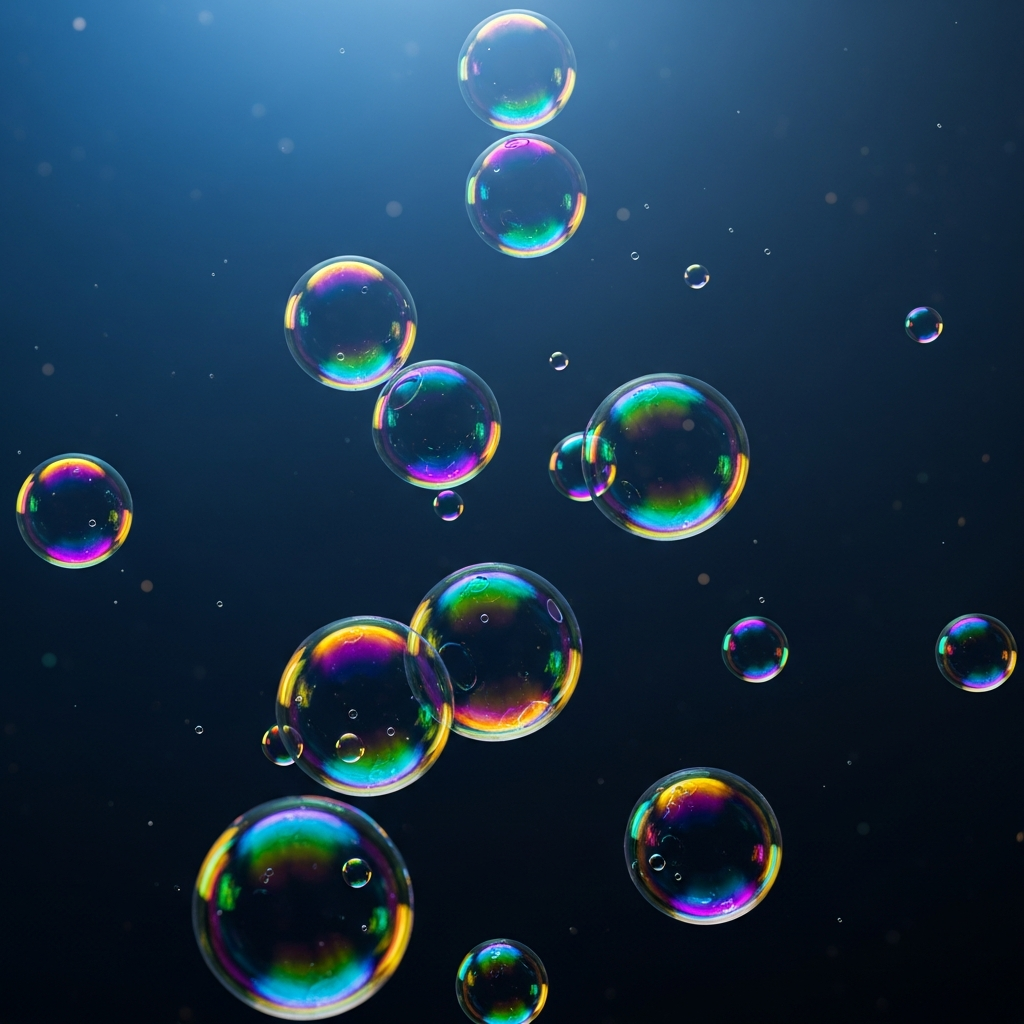
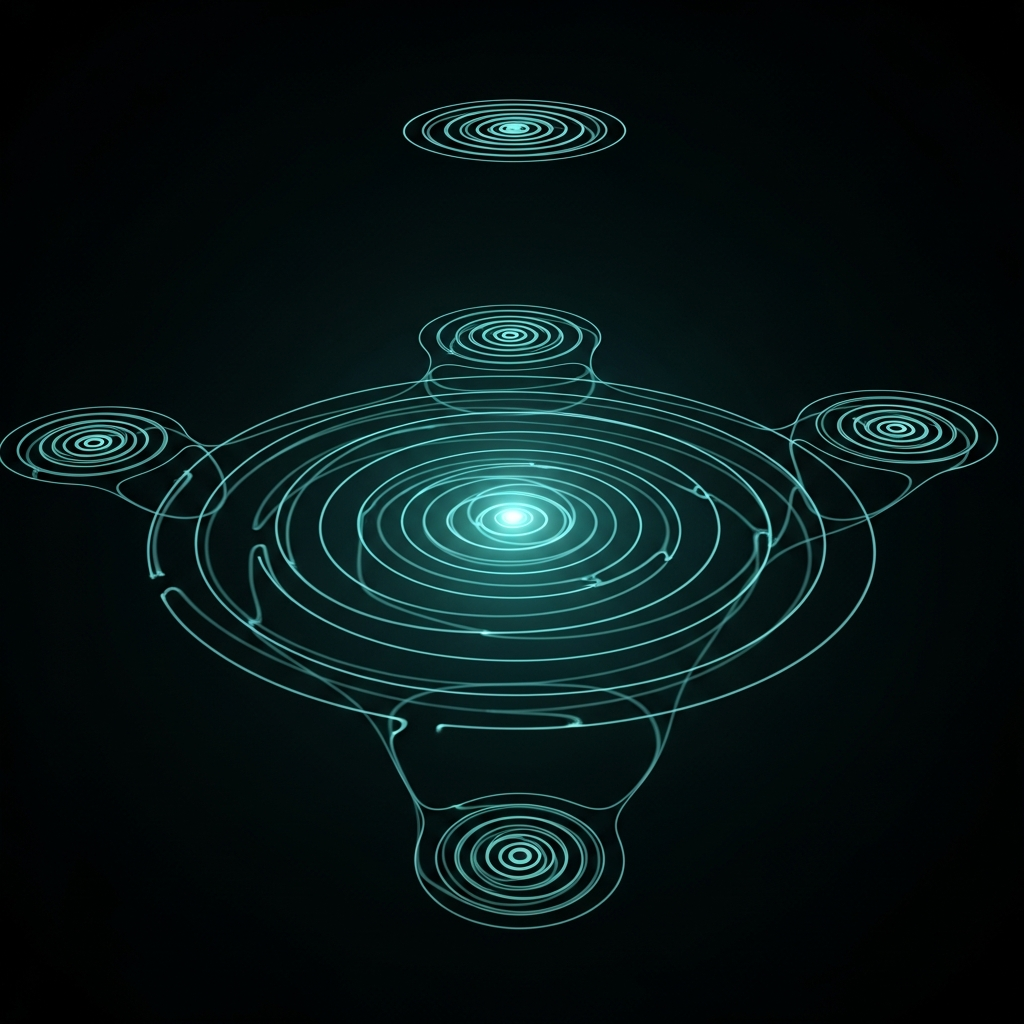
Add missing game thumbnails to improve visual appeal
Adds new thumbnail assets and updates metadata and image mapping to include these missing visuals for various games.

Replit-Commit-Author: Agent
Replit-Commit-Session-Id: eff16172-9ccb-4e85-b1d9-04c66df96663
Replit-Commit-Checkpoint-Type: full_checkpoint
Replit-Commit-Event-Id: eaa69931-3537-4f6d-8a4a-6be283aaba42
Replit-Commit-Screenshot-Url: https://storage.googleapis.com/screenshot-production-us-central1/d93e1826-1079-4de2-967c-6db521da7b1b/eff16172-9ccb-4e85-b1d9-04c66df96663/dMDHScH
Replit-Helium-Checkpoint-Created: true

diff --git a/src/lib/game-images.ts b/src/lib/game-images.ts
@@ -1,25 +1,43 @@
 import anagram from '@/assets/games/anagram.png';
 import attentionArchery from '@/assets/games/attention-archery.png';
+import boxBreathing from '@/assets/games/box-breathing.png';
 import breathBubbles from '@/assets/games/breath-bubbles.png';
+import calmBreathing from '@/assets/games/calm-breathing.png';
 import colorRush from '@/assets/games/color-rush.png';
+import coherentBreathing from '@/assets/games/coherent-breathing.png';
 import copyCat from '@/assets/games/copy-cat.png';
 import dualNBack from '@/assets/games/dual-n-back.png';
 import echoTap from '@/assets/games/echo-tap.png';
 import emotionVolcano from '@/assets/games/emotion-volcano.png';
 import empathyEngine from '@/assets/games/empathy-engine.png';
 import feelingsFaces from '@/assets/games/feelings-faces.png';
+import flexibilityFrames from '@/assets/games/flexibility-frames.png';
+import grounding from '@/assets/games/grounding.png';
+import justRight from '@/assets/games/just-right.png';
+import routineRoadmap from '@/assets/games/routine-roadmap.png';
+import squishLab from '@/assets/games/squish-lab.png';
+import triangleBreathing from '@/assets/games/triangle-breathing.png';
 
 export const GAME_IMAGES: Record<string, string> = {
   'anagram': anagram,
   'attention-archery': attentionArchery,
+  'box-breathing': boxBreathing,
   'breath-bubbles': breathBubbles,
+  'calm-breathing': calmBreathing,
   'color-rush': colorRush,
+  'coherent-breathing': coherentBreathing,
   'copy-cat': copyCat,
   'dual-n-back': dualNBack,
   'echo-tap': echoTap,
   'emotion-volcano': emotionVolcano,
   'empathy-engine': empathyEngine,
   'feelings-faces': feelingsFaces,
+  'flexibility-frames': flexibilityFrames,
+  'grounding': grounding,
+  'just-right': justRight,
+  'routine-roadmap': routineRoadmap,
+  'squish-lab': squishLab,
+  'triangle-breathing': triangleBreathing,
 };
 
 export function getGameImage(gameId: string): string | undefined {
